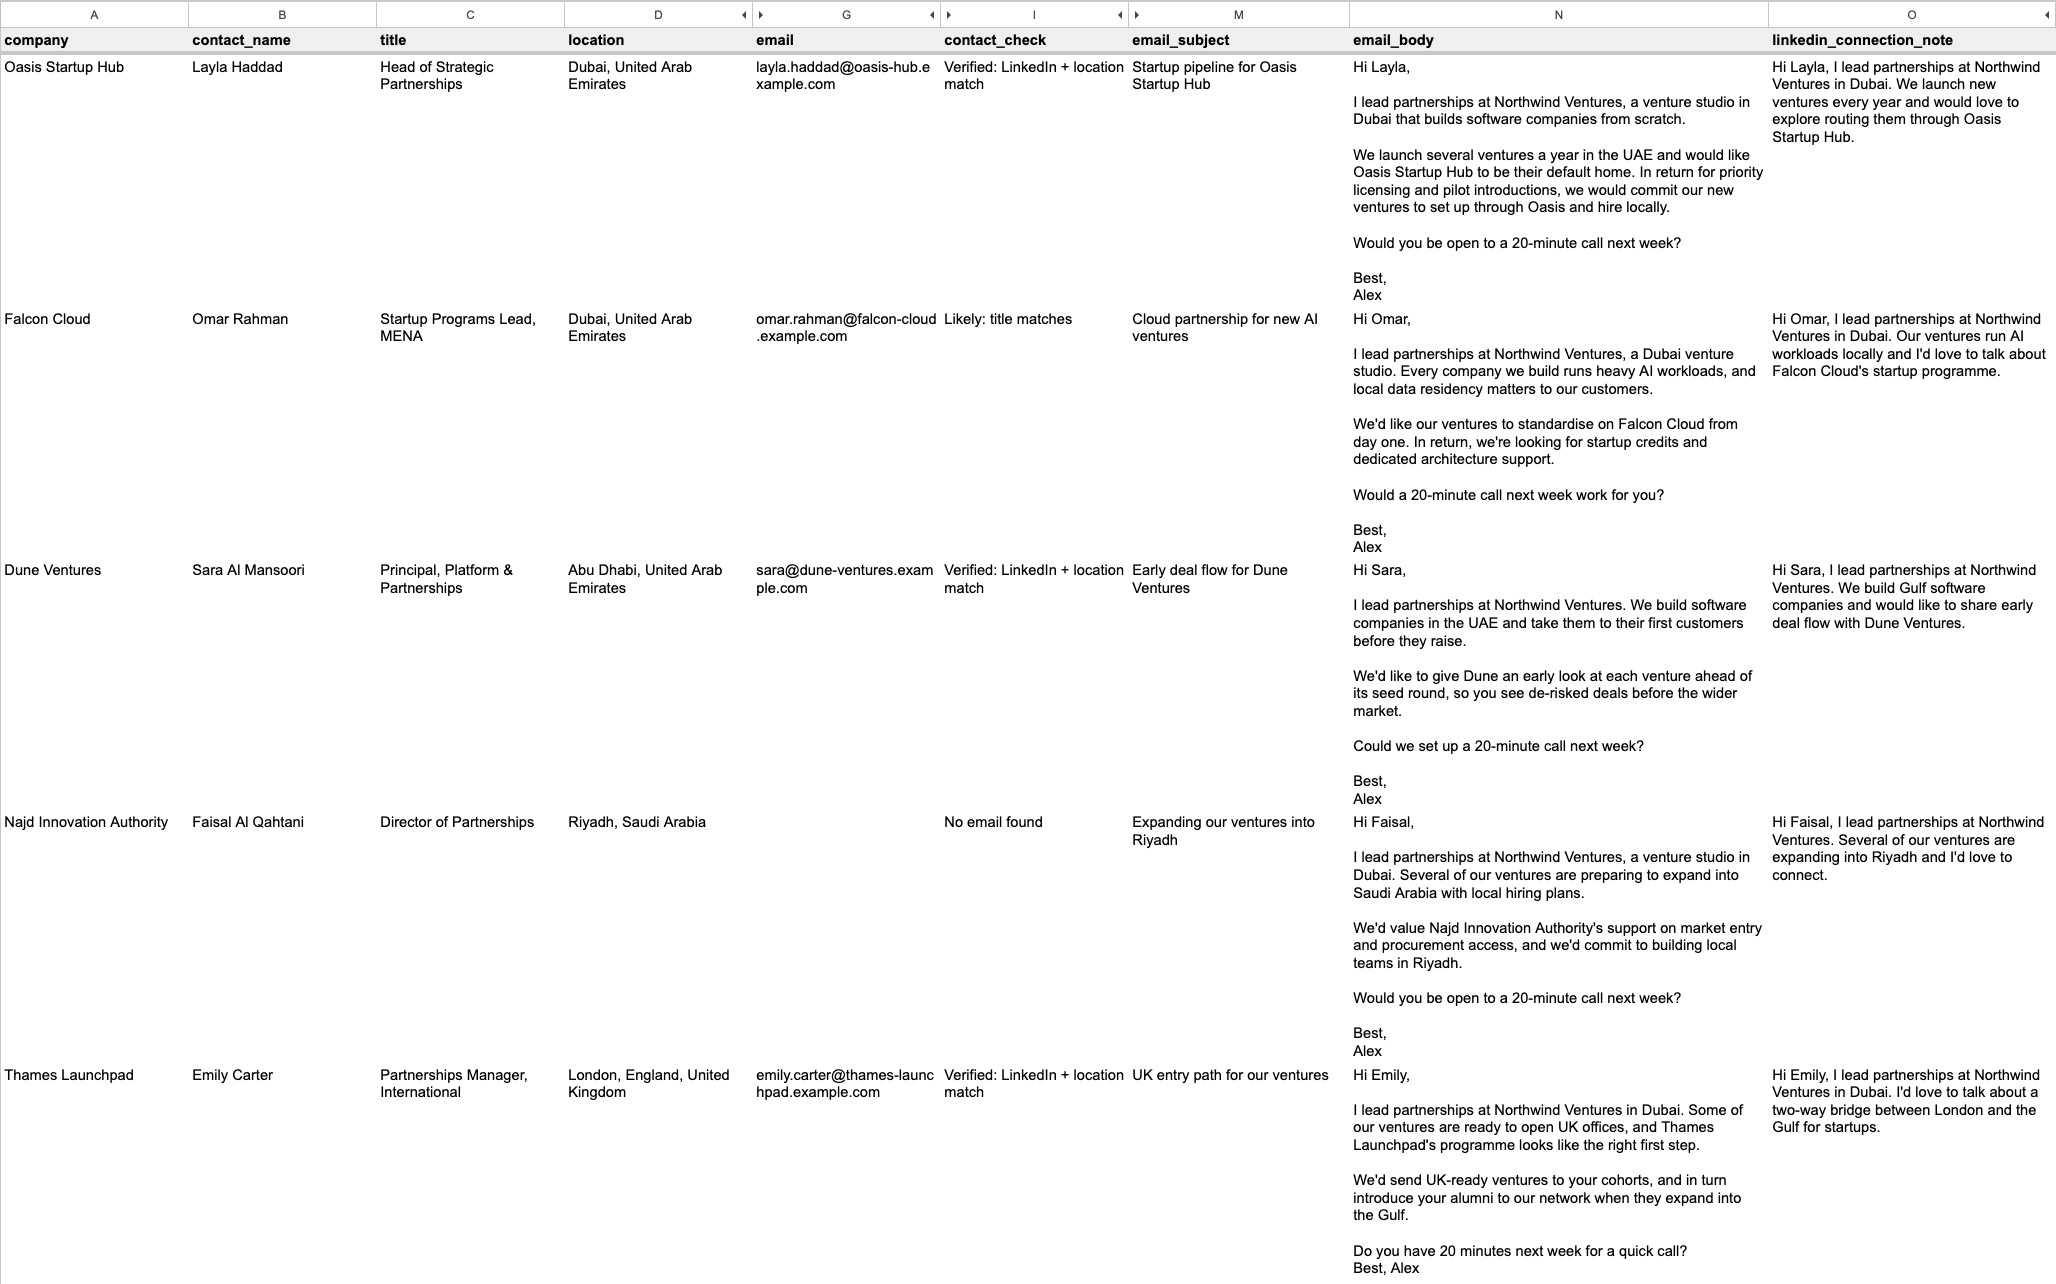
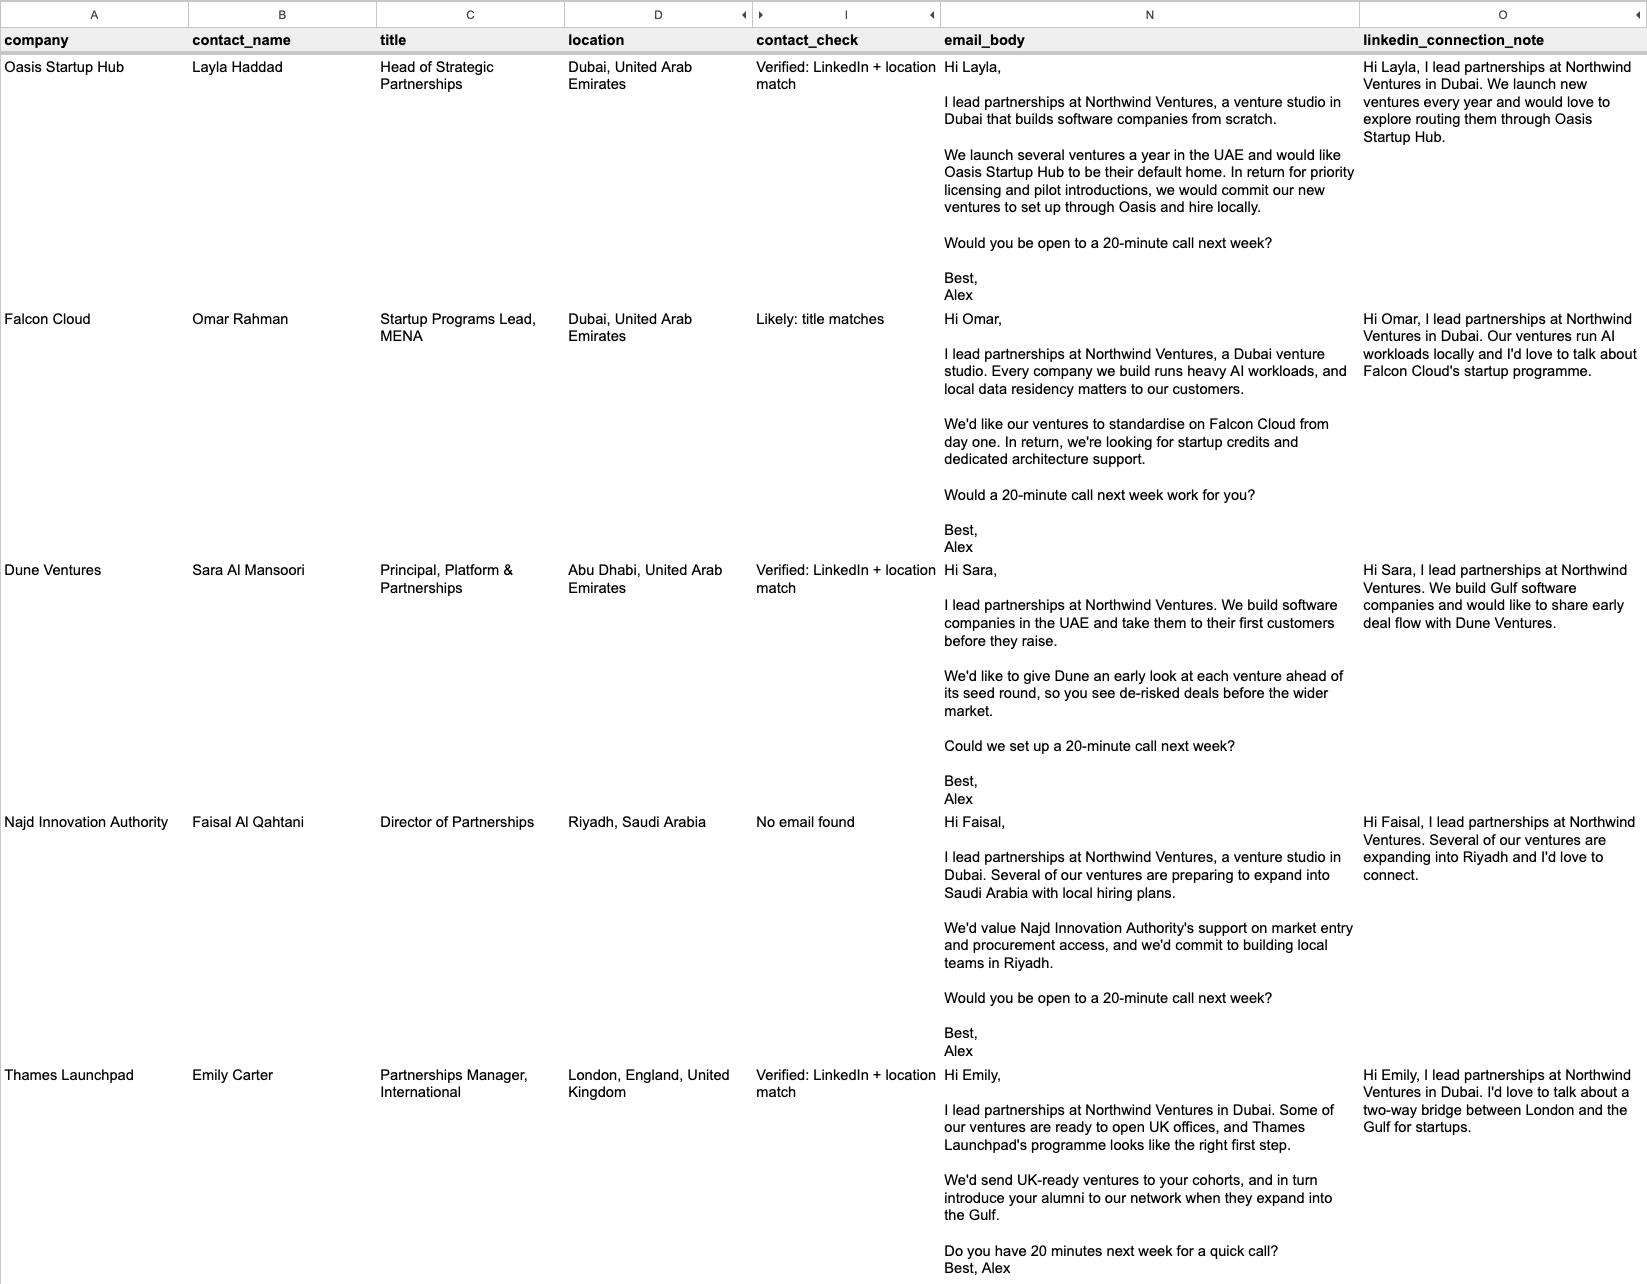
v1.0.1
Improve image readability and time-saved estimate

diff --git a/README.md b/README.md
@@ -48,7 +48,7 @@
 
 ![Outreach tab](screenshots/outreach-sheet.png)
 
-<sub>Screenshots use demo data with fictional organisations and people. Real runs produce the same output for real organisations.</sub>
+<sub>Screenshots use demo data with fictional organisations and people, and show the key columns only. Click any image to see it full size.</sub>
 
 ---
 
@@ -66,17 +66,17 @@ Tested on **36 public organisations** (startup programmes, accelerators, VC fund
 
 ## Time saved (estimate)
 
-| Task per company (2 contacts) | Manual | With the agent |
+| Task per company (1 contact) | Manual | With the agent |
 | --- | --- | --- |
 | Research the company and write a brief | 15–25 min | ~3 min to review |
-| Find the right person in the right country | 5–10 min | ~2 min to check profiles |
-| Find and verify emails | 3–5 min | ~1 min |
+| Find the right person in the right country | 5–10 min | ~2 min to check the profile |
+| Find and verify the email | 2–3 min | ~1 min |
 | Find the local office phone | 2 min | 0 |
-| Write an email and LinkedIn messages | 15–20 min | 5–8 min to edit |
+| Write an email and LinkedIn messages | 10–15 min | 3–5 min to edit |
 | Log everything in a spreadsheet | 3–5 min | 0 |
-| **Total** | **45–65 min** | **10–15 min** |
+| **Total** | **40–60 min** | **about 10 min** |
 
-**About 75–80% less time per company.** For a list of 36 companies, that's roughly 27–39 hours of manual work reduced to 6–9 hours of review.
+**About 75–80% less time per company.** For a list of 36 companies, that's roughly 24–36 hours of manual work reduced to about 6 hours of review. Set `contacts_per_company` to 2 or more and the saving grows, since each extra contact takes 15–20 minutes by hand.
 
 ---
 
